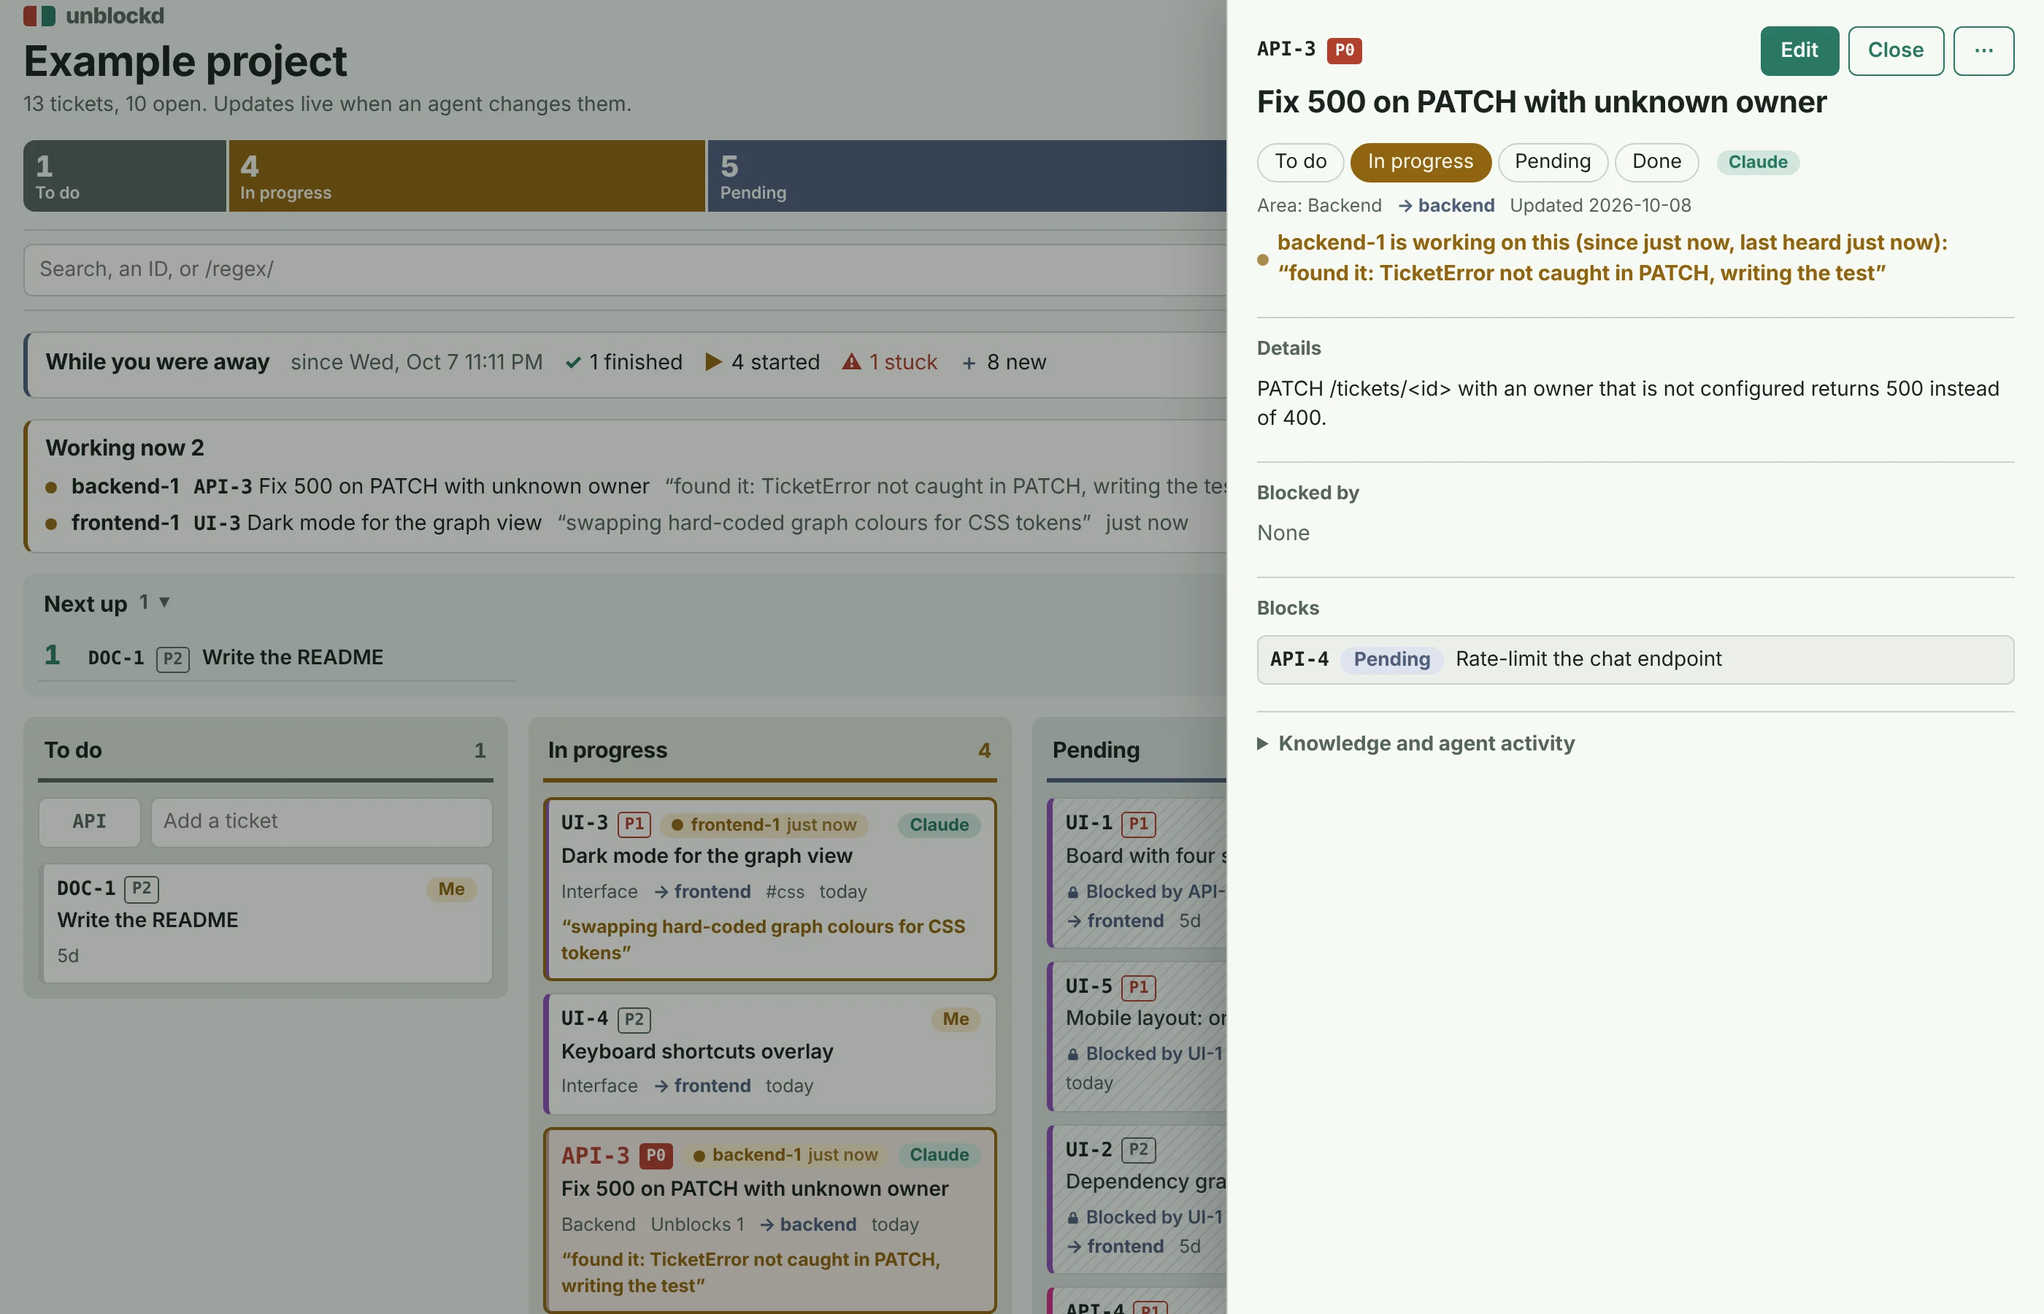
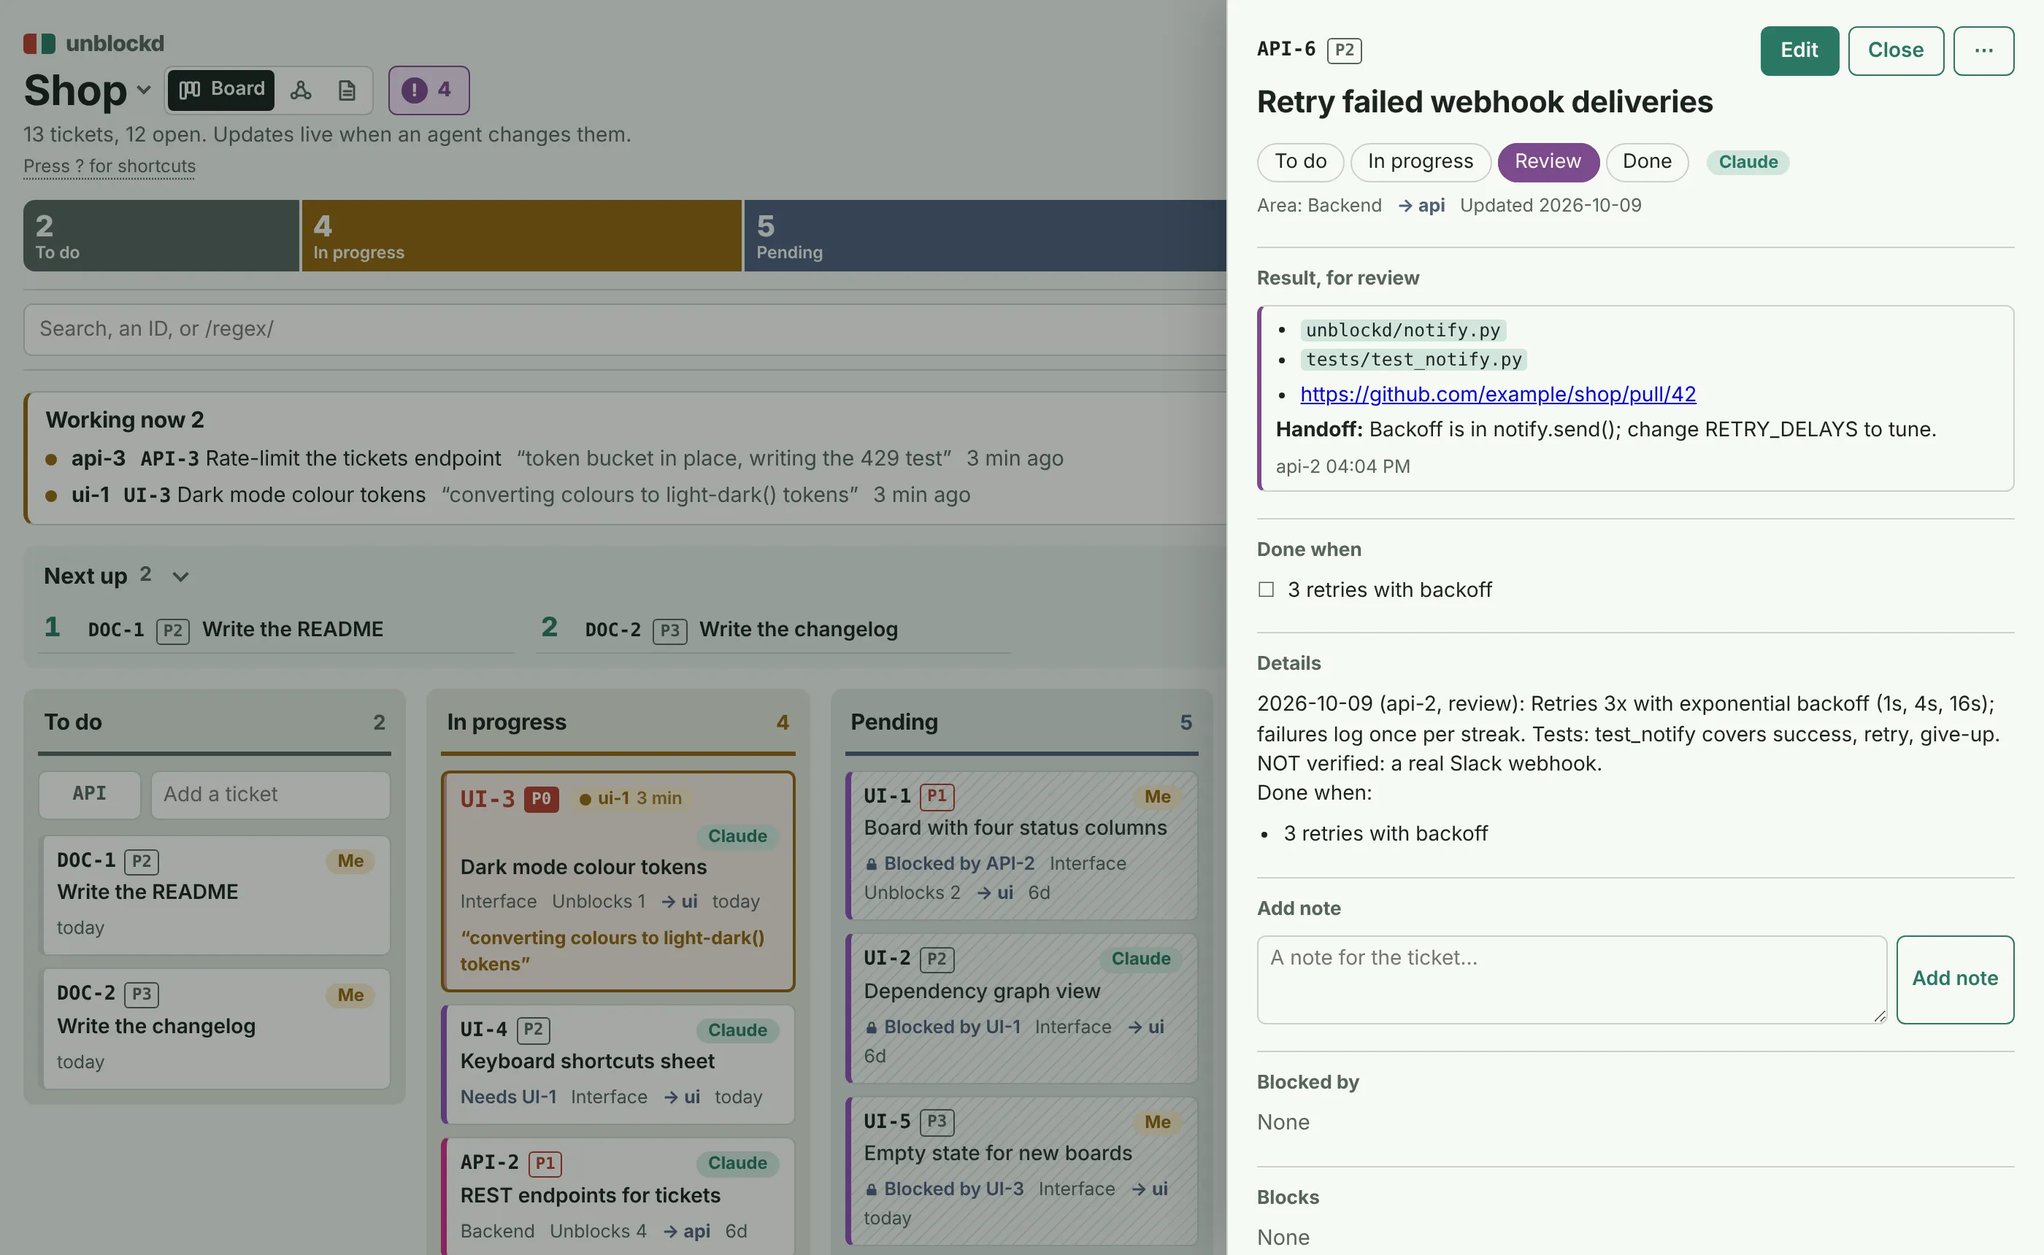
Built-in WORK_LOOP shows readable values in the viewer; README + reference refresh; new screenshots
- read_doc fills the protocol placeholders with generic values (test added)
- card header wraps when the agent chip and owner don't fit
- README: Needs you, view toggle, board switcher, priority keys, Parked, AGENT_POLICY
- docs/reference.md: keys, stuck rows, /api/needs, motion
- screenshots regenerated (webp): board, needs, graph, drawer, mobile

diff --git a/static/index.html b/static/index.html
@@ -199,7 +199,7 @@ a.btn{display:inline-block;text-decoration:none}
 .wl.miss{color:var(--cinnabar)} .wl.stale{color:var(--amber)}
 .card.flash{animation:flash 1.2s ease-out}
 @keyframes flash{from{background:var(--jade-soft)}to{background:var(--surface)}}
-.top{display:flex;align-items:center;gap:6px;margin-bottom:3px}
+.top{display:flex;flex-wrap:wrap;align-items:center;gap:6px;margin-bottom:3px}
 .tid{font-family:var(--mono);font-size:.84rem;font-weight:700;font-variant-numeric:tabular-nums;white-space:nowrap}
 .seal{font-family:var(--mono);font-weight:700;font-size:.7rem;border:1px solid currentColor;border-radius:3px;padding:0 4px;line-height:1.45;color:var(--muted)}
 .seal.p0{color:var(--surface);background:var(--cinnabar);border-color:var(--cinnabar)}

diff --git a/unblockd/knowledge.py b/unblockd/knowledge.py
@@ -12,6 +12,7 @@ Only text files are read; paths can't leave the project folder.
 from __future__ import annotations
 
 import re
+import string
 from pathlib import Path
 
 from .store import TicketError
@@ -140,7 +141,8 @@ def read_file(store, tid: str, name: str) -> str:
 
 def read_doc(store, path: str) -> dict:
 	if path == PROTOCOL:
-		return {"path": PROTOCOL, "content": PROTOCOL_FILE.read_text(encoding="utf-8"), "links": [], "builtin": True}
+		return {"path": PROTOCOL, "content": string.Template(PROTOCOL_FILE.read_text(encoding="utf-8")).safe_substitute(  # generic values; workers get theirs filled in
+			board=store.config.get("id", "this board"), profile_line="", agent_hint="<profile>-<number>, e.g. backend-1", claim_args=""), "links": [], "builtin": True}
 	base = root(store)
 	p = _inside(base, path)
 	if not p.is_file():

diff --git a/tests/test_knowledge.py b/tests/test_knowledge.py
@@ -131,6 +131,7 @@ class KnowledgeTest(unittest.TestCase):
 		self.assertTrue(docs["unblockd://work-loop"]["builtin"])
 		self.assertEqual(docs["unblockd://work-loop"]["readers"], 4)
 		self.assertIn("Never go silent", kn.read_doc(self.s, "unblockd://work-loop")["content"])
+		self.assertNotIn("$", kn.read_doc(self.s, "unblockd://work-loop")["content"])  # placeholders filled in
 		self.assertNotIn("unblockd://work-loop", [h["path"] for h in g["hubs"]])
 		self.assertEqual(reads[("CMB-1", "docs/HANDOFF.md")], "profile")  # also on the ticket: first source wins, like context()
 		self.assertEqual(reads[("CMB-3", "AGENTS.md")], "board")

diff --git a/README.md b/README.md
@@ -1,18 +1,22 @@
 # unblockd
 
-![unblockd board: agents working, a digest of what changed, tickets in four columns](docs/screenshots/board.png)
+![unblockd board: agents working, tickets in columns, a badge for what needs you](docs/screenshots/board.webp)
 
 **A ticket board where humans and AI agents work the same backlog.**
 Tickets are JSON files in your repo: reviewed in PRs next to the code, no SaaS, no database.
-Front doors: web, MCP, CLI, chat; all go through `store.py`.
+Front doors: web, MCP, CLI, chat.
 Humans get a live board and a dependency graph; agents get lease-based claims, so several of them work in parallel without stepping on each other.
 
-**Why not Trello / Linear / GitHub Projects?** Those track work for people. Here a ticket knows what blocks it, which files it touches and which docs a worker must read, and an agent can claim it, heartbeat and finish it through MCP or a CLI, with no server round-trip to a third party.
+**Why not Trello / Linear / GitHub Projects?** Those track work for people. Here a ticket knows what blocks it, which files it touches and which docs a worker must read, and an agent can claim, heartbeat and finish it through MCP or a CLI.
 
 <table>
 <tr>
+<td width="50%"><img src="docs/screenshots/needs-dark.webp" alt="Needs you panel in dark mode: an agent's question, a stuck ticket, a result waiting for review"><br><sub>Needs you: answer agents without leaving the board</sub></td>
 <td width="50%"><img src="docs/screenshots/graph-dark.webp" alt="Dependency graph in dark mode: tickets as nodes, arrows from blocker to blocked"><br><sub>Blocking graph</sub></td>
-<td width="50%"><img src="docs/screenshots/drawer.webp" alt="Ticket drawer for a P0 ticket: agent, details, blockers, what it blocks"><br><sub>Ticket drawer</sub></td>
+</tr>
+<tr>
+<td width="50%"><img src="docs/screenshots/drawer.webp" alt="Ticket drawer for a ticket in review: result, done when, notes, blockers"><br><sub>Ticket drawer</sub></td>
+<td width="50%"><img src="docs/screenshots/mobile.webp" alt="The board at phone width"><br><sub>Phone width</sub></td>
 </tr>
 </table>
 
@@ -30,9 +34,9 @@ UNBLOCKD_ROOT=/tmp/demo python -m unblockd.web
 
 Expected: `unblockd on http://localhost:8787  boards: example (/tmp/demo/shop/tickets)`
 
-*Docker instead (not run here, no daemon available):* `docker compose up -d --build` serves `./example` on the same port; set `PROJECTS_DIR=/path/to/projects` in `.env` for your own.
+*Docker instead (not run here):* `docker compose up -d --build` serves `./example`; set `PROJECTS_DIR` in `.env` for your own.
 
-**2. Open the board** at <http://localhost:8787>: five tickets in columns, `g` switches to the graph.
+**2. Open the board** at <http://localhost:8787>: five tickets in columns, `g` switches to the graph, `d` to the docs agents read, `?` lists every shortcut.
 
 **3. Create a ticket the backend agent can take** (pillar `API`, owned by Claude; the demo's other open tickets are human-owned, blocked or already claimed). Press `n` in the board, or from another terminal:
 
@@ -40,7 +44,7 @@ Expected: `unblockd on http://localhost:8787  boards: example (/tmp/demo/shop/ti
 python -m unblockd.cli --dir /tmp/demo/shop/tickets create --prefix API --title "My first ticket" --json '{"pillar":"API","owner":"Claude"}'
 ```
 
-Expected: JSON with `"id": "API-3"`, `"status": "todo"`; the card appears within 4 s, and `cli plan` lists it under `backend`.
+Expected: JSON with `"id": "API-3"`, `"status": "todo"`; the card appears within 4 s.
 
 **4. Connect Claude Code, no Docker:**
 
@@ -50,10 +54,12 @@ claude mcp add unblockd -e UNBLOCKD_ROOT=/tmp/demo -e PYTHONPATH=$PWD -- python 
 claude mcp list
 ```
 
-Expected: `unblockd: python -m unblockd.mcp_server - Connected`. `PYTHONPATH` must be this checkout, because the package is not pip-installed. Use an absolute `python` path if Claude Code's `python` differs from the one you ran `pip` with.
+Expected: `unblockd: python -m unblockd.mcp_server - Connected`. `PYTHONPATH` must be this checkout, because the package is not pip-installed.
 
 **5. Tell Claude:** *"use unblockd: run work_plan and work all ready tickets."* It plans, claims, heartbeats and completes tickets; watch cards move on the board. An empty claim returns `{ticket: null, reason}`: `dry` = nothing ready, `conflict` = ready tickets touch files a live claim holds (retry soon), `waiting` = work exists but is in flight, blocked, in review or waiting on a human.
 If the board defines agent profiles (the demo has `frontend` and `backend`), worker names must be `<profile>-N`, e.g. `backend-1`; anything else is refused with a message listing the profiles.
+
+**What the UI gives you:** the **Needs you** badge (`i`) collects, across all boards, questions agents asked, work waiting for your review and stuck tickets, and you answer, approve or reject inline. The title is the board switcher (`Shift+B`). Priority means P0 breaks things now, P1 must happen, P2 should, P3 nice to have (`p` then `0`-`3` sets it).
 
 ## Concepts
 
@@ -67,18 +73,18 @@ If the board defines agent profiles (the demo has `frontend` and `backend`), wor
 | **Claim, lease, heartbeat** | `claim_next` gives a worker one ticket and sets it to `doing`. The worker sends `heartbeat` notes; with none for `lease_minutes` (15) the claim expires and the ticket returns to todo. |
 | **done_when** | Short acceptance criteria: the bar for done, shown at the top of the worker's context. |
 | **review** | Optional gate (`"review": true`): agents' `complete` lands in `review` and a human moves it to done. |
-| **waiting_on / ask_human** | A decision only a human can make: the worker asks, the claim ends, the ticket waits until a human answers. |
+| **ask_human / Parked** | A decision only a human can make: the worker asks, the claim ends, the ticket waits in Needs you until you answer. A `waiting_on` you type yourself is *Parked*: it never shows in Needs you. |
 
 ## Configuring agents
 
-Put your project rules (tests, commits, PRs, when to ask a human, summary language) in a doc such as `AGENT_POLICY.md` and list it in `docs` in `unblockd.json`; every worker reads it with its ticket. The protocol itself (`WORK_LOOP.md`: claim, heartbeat, complete / release / ask) is built in and shows in the Docs view; your docs cannot change it. See `example/AGENT_POLICY.md`.
+Put your project rules (tests, commits, PRs, when to ask a human, summary language) in a doc such as `AGENT_POLICY.md` and list it in `docs` in `unblockd.json`; every worker reads it with its ticket. The protocol itself (`WORK_LOOP.md`: claim, heartbeat, complete / release / ask; a worker never goes silent) is built in and shows in the Docs view; your docs cannot change it. See `example/AGENT_POLICY.md`.
 
 ## Config and auth, briefly
 
 | Env var | Meaning |
 |---|---|
 | `UNBLOCKD_ROOT` | Folder(s) of projects; every `<project>/tickets/unblockd.json` is a board. |
-| `HOST`, `PORT` | Web server bind address (default `127.0.0.1`, `8787`). A non-loopback `HOST` without a token prints a warning. |
+| `HOST`, `PORT` | Bind address (default `127.0.0.1`, `8787`). |
 | `UNBLOCKD_TOKEN` | Optional shared token. Set: `/api/*` needs `Authorization: Bearer <token>`, or open `/?token=<token>` once to set a cookie. Unset: no auth, so keep it on localhost. MCP and CLI open the folder directly and ignore it. |
 
 ## More

diff --git a/docs/reference.md b/docs/reference.md
@@ -179,7 +179,9 @@ Every ticket comes back with derived fields: `effective_status`,
 
 ## The board
 
-**Needs you**: the purple `! N` badge next to the Board / Graph / Docs switch (any view, any board; hidden at 0; `i` opens it) counts questions agents asked (`ask_human`), work in review and stuck work (a `doing` ticket with no update for `stale_days`, or one whose blocker was deleted: *Release to To do* or open it), on every board. It opens a side panel: this board first, then each other board; ordered by score, then oldest. Each row has a one-line answer (or Approve / Reject) and expands (click it) to the full question, the result, Done when and the last 3 notes, with a multi-line box (Enter = newline, Ctrl/Cmd+Enter sends). You can answer or approve a ticket on another board without switching to it. A `waiting_on` you set by hand is *Parked*, not listed.
+![Needs you panel with a review row expanded](screenshots/needs-dark.webp)
+
+**Needs you**: the purple `! N` badge next to the Board / Graph / Docs switch (any view, any board; hidden at 0; `i` opens it) counts questions agents asked (`ask_human`), work in review and stuck work (a `doing` ticket with open blockers, with no update for `stale_days`, or whose blocker was deleted: the row says why; *Release to To do* or open it), on every board. It opens a side panel: this board first, then each other board; ordered by score, then oldest. Each row has a one-line answer (or Approve / Reject) and expands (click it) to the full question, the result, Done when and the last 3 notes, with a multi-line box (Enter = newline, Ctrl/Cmd+Enter sends). You can answer or approve a ticket on another board without switching to it. A `waiting_on` you set by hand is *Parked*, not listed. Data: `GET /api/needs`. Motion (card slides, view cross-fade, panel rows) is short and switched off by `prefers-reduced-motion`.
 
 **Priority** means: P0 breaks things or blocks people now; P1 must happen for the goal; P2 should happen; P3 nice to have; none counts like P3. The pickers (new/edit ticket, bulk bar) and the `?` sheet show these lines. Keyboard: `p` then `0`-`3` (or `-` to clear) sets the priority of the open ticket, else the focused card, with an Undo toast.
 
@@ -191,7 +193,7 @@ Every ticket comes back with derived fields: `effective_status`,
 - **Regex search**: wrap the search in slashes, `/^CMB-|BUG-10/`, to match ids and titles (case-insensitive). An invalid pattern turns the box red and matches nothing.
 - Drag a card between columns to change its status. Polls every 4 s, so agent edits show up live.
 
-![The board at phone width: one column at a time behind tabs](screenshots/mobile.png)
+![The board at phone width: one column at a time behind tabs](screenshots/mobile.webp)
 
 **Graph** (Board / Graph switch): arrow A -> B means A blocks B. Fill =
 status, ring = pillar, size = how much is waiting on it.
@@ -205,7 +207,7 @@ status, ring = pillar, size = how much is waiting on it.
 - **Shift-drag A onto B** makes A block B; click a link to remove it.
 - "Chains as text" under the canvas for screen readers; pinch and wheel zoom.
 
-Keyboard: `/` search, `g` Board/Graph, `d` Docs, `n` new, `p` priority, `j`/`k` move, `Enter` open,
+Keyboard: `/` search, `g` Board/Graph, `d` Docs, `n` new, `i` Needs you, `Shift+B` board switcher, `p` priority, `j`/`k` move, `Enter` open,
 `t` theme, `?` shortcuts, `Esc` close. The ⚙ button sets theme (System / Light / Dark), density
 (Comfortable / Compact) and the "While you were away" digest, per browser.
 **Agents** (header button, or the "N agents working" badge) shows, per agent profile over 7 or 30 days, tickets finished, median time to finish, stuck rate (expired + released claims, flagged at 30% or more), splits and who is working now.
@@ -230,7 +232,7 @@ claude mcp add unblockd --scope user -- docker run -i --rm -v /path/to/projects:
 Build the image once first (`docker compose build`), or use
 `ghcr.io/omri2003/unblockd` in place of `unblockd`.
 
-Workers: the protocol is the file `unblockd/WORK_LOOP.md` (shipped in the package, same for every board, not configurable). The `work_loop` prompt (`board`, `profile`) and the `unblockd://work-loop` resource carry the claim, heartbeat, complete / release / `ask_human` protocol, so any MCP client can run it without the orchestrator skill. The file ends with two rules: *Never go silent* (stop a claimed ticket only through `ask_human` or `release`, never by just stopping) and *Your board's policy* (board / profile docs such as `AGENT_POLICY.md` say how to do the work; if they conflict with the protocol, the protocol wins and the worker says so in its summary). The Docs view lists the protocol as a **built-in** doc (`unblockd://work-loop`, `builtin: true` in `GET /knowledge`, openable with View file / `read_doc`) that every open ticket reads; it is not inlined into `context()`, which carries `protocol: "unblockd://work-loop"` instead.
+Workers: the protocol is the file `unblockd/WORK_LOOP.md` (shipped in the package, same for every board, not configurable). The `work_loop` prompt (`board`, `profile`) and the `unblockd://work-loop` resource carry the claim, heartbeat, complete / release / `ask_human` protocol, so any MCP client can run it without the orchestrator skill. The file ends with two rules: *Never go silent* (stop a claimed ticket only through `ask_human` or `release`, never by just stopping) and *Your board's policy* (board / profile docs such as `AGENT_POLICY.md` say how to do the work; if they conflict with the protocol, the protocol wins and the worker says so in its summary). The Docs view lists the protocol as a **built-in** doc (`unblockd://work-loop`, `builtin: true` in `GET /knowledge`, openable with View file / `read_doc`, shown with generic values: workers get their board, profile and name filled in) that every open ticket reads; it is not inlined into `context()`, which carries `protocol: "unblockd://work-loop"` instead.
 
 Tools: `list_boards`, `create_board`, `board_info` (owners, pillars, agent
 profiles), `work_plan` (orchestrators start here), `next_ready` (single agents

diff --git a/AGENTS.md b/AGENTS.md
@@ -107,7 +107,7 @@ Optional; `DEFAULT_CONFIG` in store.py is the schema and unknown keys are refuse
   `claim_ticket` (MCP, CLI) return `{...ticket, "context": ...}`, which is the whole point: a
   worker reads its instructions from the board instead of being told. The chat has
   `get_context` / `read_doc` too.
-- **Built-in protocol doc**: `knowledge.PROTOCOL` (`unblockd://work-loop`) is `WORK_LOOP.md`. `graph()` adds it (when there are open tickets) as a `kind: board`, `builtin: true` doc that every open ticket reads (so never a hub, never a `no_docs` gap; the Docs view labels it "built-in"); `read_doc` opens it; `context()` does NOT inline it (agents get it via the MCP prompt) but returns `protocol: "unblockd://work-loop"`. Board `docs` / profile docs (e.g. `AGENT_POLICY.md`, see `example/`) say HOW to work; the protocol says they cannot override it. This repo's own board has no AGENT_POLICY: AGENTS.md already is that doc.
+- **Built-in protocol doc**: `knowledge.PROTOCOL` (`unblockd://work-loop`) is `WORK_LOOP.md`. `graph()` adds it (when there are open tickets) as a `kind: board`, `builtin: true` doc that every open ticket reads (so never a hub, never a `no_docs` gap; the Docs view labels it "built-in"); `read_doc` opens it with generic placeholder values (board id, `<profile>-<number>`; no raw `$vars` in the viewer); `context()` does NOT inline it (agents get it via the MCP prompt) but returns `protocol: "unblockd://work-loop"`. Board `docs` / profile docs (e.g. `AGENT_POLICY.md`, see `example/`) say HOW to work; the protocol says they cannot override it. This repo's own board has no AGENT_POLICY: AGENTS.md already is that doc.
 - **Knowledge graph** (`knowledge.graph(store)`; REST `GET knowledge`, MCP `knowledge_graph`): what `context()` would give every OPEN ticket, without inlining
   (`expand()` results are cached per call). Returns `tickets`, `docs` {path, kind, size, readers, error?, linked_only?}, `reads` [{ticket, doc, via}], `links` [{from, to}]
   (doc -> doc, one hop from docs a ticket reads; targets must exist and be text; those no ticket reads become `linked_only` nodes), and the problem lists.
